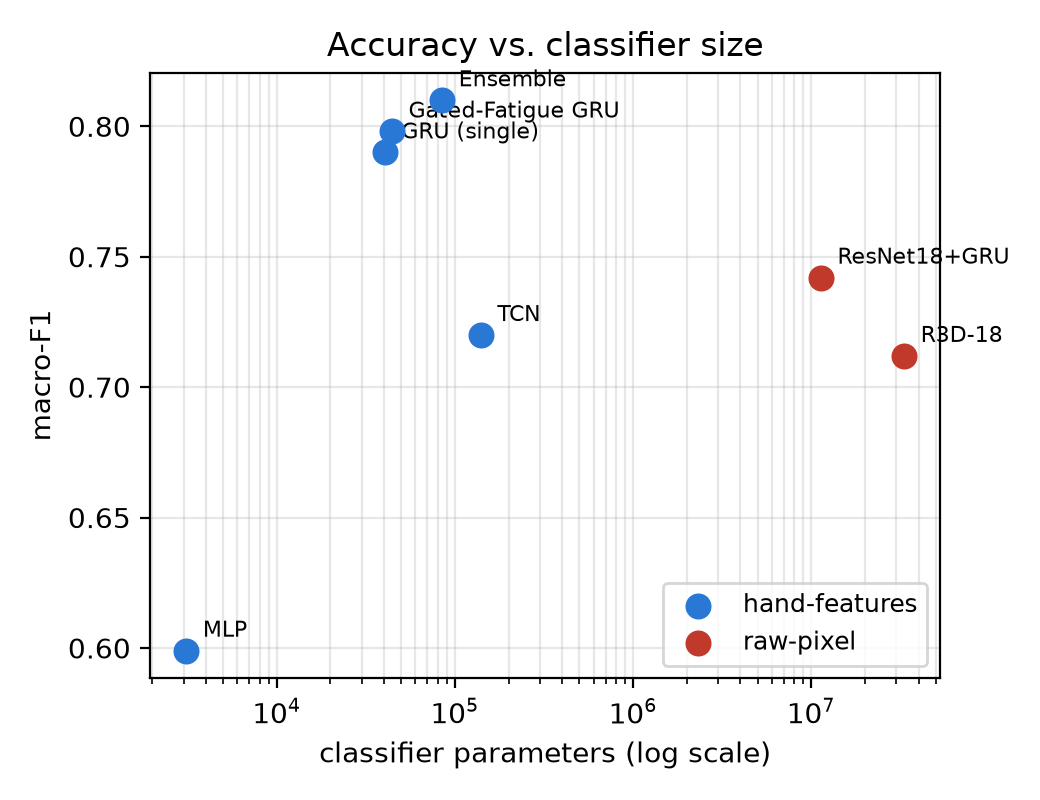
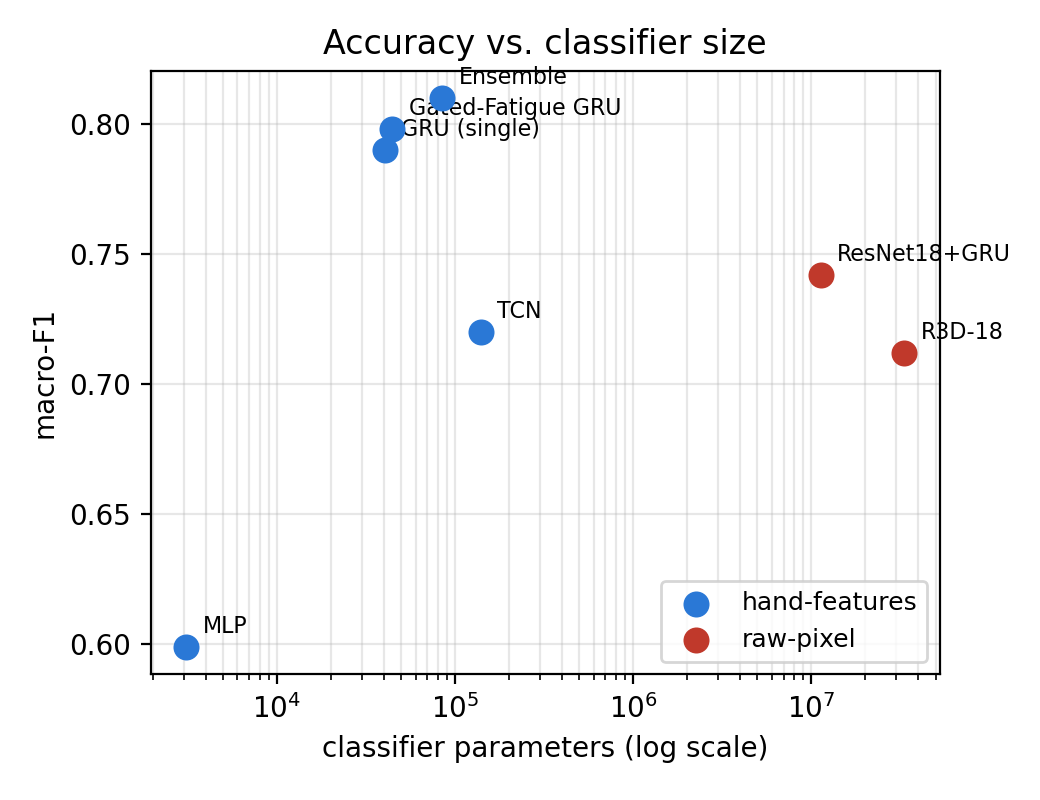
add test on jetson

diff --git a/docs/paper/paper.tex b/docs/paper/paper.tex
@@ -37,7 +37,7 @@ cmin@stthomas.edu}
 
 \begin{abstract}
 % TODO(author): trim/adjust once happy with the numbers.
-Distracted and drowsy driving are still one of the biggest causes of crashes on the road today. A driver monitoring system (DMS) that can watch the driver continuously and warn them before something bad happens could help a lot with this problem. Many DMS designs on the market or in research use infrared cameras, depth sensors, or wearable biosensors to make the system more reliable in bad lighting, but all of these add cost and make the system harder to install in a normal vehicle. This paper looks at the opposite direction: build a driver state monitoring pipeline using only one regular RGB camera, and design it so it can eventually run on a small embedded computer, the NVIDIA Jetson Orin Nano Super. The pipeline uses a chain of pretrained models to get face location, head pose, eye state, gaze direction, and mouth shape from each frame, turns these into a 13-number feature vector, and then a temporal model decides the driver's state from the sequence of these numbers. Since we did not fine-tune any of the upstream models, the only thing we actually train is this last classifier, so the paper focuses on comparing ten different architectures for it, from classic machine learning (SVM, Random Forest, Gradient Boosted Trees) to recurrent and convolutional sequence models (GRU, Temporal Convolutional Network) to models trained directly on raw pixels (a fine-tuned ResNet18+GRU and a 3D-CNN). All ten are trained and tested on the same driver-independent split of the Driver Monitoring Dataset (DMD), so the comparison is fair. The best result comes from averaging two GRU models together (a gated dual-branch GRU and a plain single-branch GRU), giving a macro-F1 of 0.810 using only 84,609 parameters combined, which is much smaller than the raw-pixel models we also tested (up to 33.2 million parameters) even though it performs better. We also found that using raw pixels does not actually beat the best hand-engineered-feature models here, and that training one of the models longer actually made it slightly worse. On-device latency and power measurements on the actual Jetson hardware are the next step of this work and are not included yet.
+Distracted and drowsy driving are still one of the biggest causes of crashes on the road today. A driver monitoring system (DMS) that can watch the driver continuously and warn them before something bad happens could help a lot with this problem. Many DMS designs on the market or in research use infrared cameras, depth sensors, or wearable biosensors to make the system more reliable in bad lighting, but all of these add cost and make the system harder to install in a normal vehicle. This paper looks at the opposite direction: build a driver state monitoring pipeline using only one regular RGB camera, and design it so it can eventually run on a small embedded computer, the NVIDIA Jetson Orin Nano Super. The pipeline uses a chain of pretrained models to get face location, head pose, eye state, gaze direction, and mouth shape from each frame, turns these into a 13-number feature vector, and then a temporal model decides the driver's state from the sequence of these numbers. Since we did not fine-tune any of the upstream models, the only thing we actually train is this last classifier, so the paper focuses on comparing ten different architectures for it, from classic machine learning (SVM, Random Forest, Gradient Boosted Trees) to recurrent and convolutional sequence models (GRU, Temporal Convolutional Network) to models trained directly on raw pixels (a fine-tuned ResNet18+GRU and a 3D-CNN). All ten are trained and tested on the same driver-independent split of the Driver Monitoring Dataset (DMD), so the comparison is fair. The best result comes from averaging two GRU models together (a gated dual-branch GRU and a plain single-branch GRU), giving a macro-F1 of 0.810 using only 84,609 parameters combined, which is much smaller than the raw-pixel models we also tested (up to 33.2 million parameters) even though it performs better. We also found that using raw pixels does not actually beat the best hand-engineered-feature models here, and that training one of the models longer actually made it slightly worse. We further port the full pipeline to the Jetson Orin Nano Super and measure it directly: as TensorRT FP16 engines the cascade plus classifier runs in about 5\,ms per frame (roughly 200\,fps of compute) while drawing under 10\,W and using 4.1\,GB of memory, confirming that the design fits the embedded budget with large margin.
 \end{abstract}
 
 \begin{IEEEkeywords}
@@ -158,22 +158,22 @@ Table~\ref{tab:comparison} shows all ten architectures side by side. The best si
 
 \begin{table}[htbp]
 \centering
-\caption{All ten architectures on the held-out driver split. Params is the trained classifier only, it does not include the pretrained cascade stages before it. The three classical ML models do not have a comparable parameter count, so they are marked N/A.}
+\caption{All ten architectures on the held-out driver split. Params is the trained classifier only, it does not include the pretrained cascade stages before it. The three classical ML models do not have a comparable parameter count, so they are marked N/A. Lat.\ is the measured per-frame stage-4 classifier latency on the Jetson Orin Nano Super at MAXN, and excludes the shared cascade front-end (that is reported separately in Section~\ref{sec:embedded}). Neural models are timed in PyTorch (CUDA), their present runtime; classical models ($\ddagger$) run in scikit-learn on the CPU, timed on representative inputs (their fitted models are not checkpointed), so the Random Forest figure in particular is indicative. $\dagger$: the tiny feature heads sit on a fixed ${\sim}0.5$\,ms PyTorch kernel-launch overhead, so their true compute is far smaller (0.02\,ms for the GRU under TensorRT) and parameter count is the fairer compute proxy for them. $\S$: R3D-18 emits one prediction per 16-frame clip (293\,ms/clip), so its figure is per-frame amortized.}
 \label{tab:comparison}
-\begin{tabular}{@{}lccc@{}}
+\begin{tabular}{@{}lcccc@{}}
 \toprule
-\textbf{Architecture} & \textbf{Input} & \textbf{macro-F1} & \textbf{Params} \\
+\textbf{Architecture} & \textbf{Input} & \textbf{macro-F1} & \textbf{Params} & \textbf{Lat.\ (ms)} \\
 \midrule
-SVM (RBF) & features & 0.531 & N/A \\
-Random Forest & features & 0.599 & N/A \\
-Gradient Boosted Trees & features & 0.620 & N/A \\
-MLP (per-frame) & features & 0.599 & 3{,}101 \\
-TCN & features, seq. & 0.720 & 139{,}549 \\
-R3D-18 (3D-CNN) & raw pixels & 0.712 & 33{,}177{,}437 \\
-ResNet18+GRU (fine-tuned) & raw pixels & 0.742 & 11{,}314{,}205 \\
-GRU (single-branch) & features, seq. & 0.790 & 40{,}349 \\
-Gated-Fatigue GRU & features, seq. & 0.798 & 44{,}260 \\
-\textbf{Ensemble (both GRUs)} & features, seq. & \textbf{0.810} & \textbf{84{,}609} \\
+SVM (RBF) & features & 0.531 & N/A & 0.70$^\ddagger$ \\
+Random Forest & features & 0.599 & N/A & 88$^\ddagger$ \\
+Gradient Boosted Trees & features & 0.620 & N/A & 1.84$^\ddagger$ \\
+MLP (per-frame) & features & 0.599 & 3{,}101 & 0.51$^\dagger$ \\
+TCN & features, seq. & 0.720 & 139{,}549 & 4.59 \\
+R3D-18 (3D-CNN) & raw pixels & 0.712 & 33{,}177{,}437 & 18.4$^\S$ \\
+ResNet18+GRU (fine-tuned) & raw pixels & 0.742 & 11{,}314{,}205 & 8.54 \\
+GRU (single-branch) & features, seq. & 0.790 & 40{,}349 & 0.60$^\dagger$ \\
+Gated-Fatigue GRU & features, seq. & 0.798 & 44{,}260 & 1.17 \\
+\textbf{Ensemble (both GRUs)} & features, seq. & \textbf{0.810} & \textbf{84{,}609} & \textbf{1.77} \\
 \bottomrule
 \end{tabular}
 \end{table}
@@ -212,28 +212,57 @@ Since we wanted a fair comparison, we trained every iterative architecture for a
 \section{Toward Embedded Deployment}
 \label{sec:embedded}
 
-% TODO(author): this section is currently just parameter counts and other
-% papers' published numbers. Fill in the placeholder table below once we
-% actually benchmark on the Jetson.
-
 Part of the reason we compared 10 different architectures instead of just picking the most accurate one is that an embedded board cannot simply run whatever gets the best number, it has to also fit inside a real-time latency and power budget. Table~\ref{tab:comparison} already tells us something useful here even without touching the Jetson: the classifier itself is a tiny part of the total compute, no matter which one we pick. Even the biggest raw-pixel model (33.2 million parameters) is small by the standards of embedded vision models, and the ensemble we are actually recommending (84,609 parameters combined) is far smaller still. The part of the pipeline that will actually decide whether this runs in real time is the cascade in Fig.~\ref{fig:pipeline}, stages ① through ⑤, since those run on every single frame no matter which classifier is used afterward.
 
 Two papers we cited earlier already give us a rough idea of what to expect. Scribano et al. \cite{b_scribano} report 1.73\,ms per frame (FP16) for their smallest model on a Jetson Xavier NX, and 16.5--23.7\,ms for their full pipeline depending on how often face detection runs. A separate paper targeting the Jetson Orin Nano directly \cite{b_multiregion} projects 13--20\,fps for a similar single-frame network. These numbers are useful as a rough reference, but they are for different network architectures running on different (and in one case weaker) hardware than what we are using, so they cannot really substitute for actually measuring our own pipeline.
 
-We have not measured our pipeline on the Jetson yet at the time of writing this paper. Table~\ref{tab:embedded_plan} lists what we plan to measure once the deployment is set up.
+We have now ported the full pipeline to the Jetson Orin Nano Super and measured it directly. Each of the five cascade stages, and the classifier, was built as a TensorRT FP16 engine and benchmarked at the uncapped MAXN power mode; Table~\ref{tab:embedded} reports the per-stage latency. In isolation the whole cascade plus classifier sums to about 5.0\,ms per frame, roughly 200\,frames per second of compute, and is dominated by the two backbone stages, SCRFD and 6DRepNet. The classifier itself is negligible, confirming on the actual hardware what the parameter counts already suggested.
+
+We also measured the pipeline end-to-end over a held-out DMD session (1280$\times$720, 2000 frames, all with a detected face). Our current reference implementation runs the cascade through ONNX Runtime's CUDA provider, with the gaze model on the CPU, rather than through the TensorRT engines, and sustains 11.5\,fps of compute (9.9\,fps including video decode). The gap between this and the ${\sim}200$\,fps compute bound is almost entirely because the two heaviest stages are not yet wired to their TensorRT engines: run through ONNX Runtime, 6DRepNet and SCRFD take 47.6\,ms and 22.9\,ms per frame, about 20$\times$ their standalone FP16 engine latency. Closing that gap is an implementation task, not a change to any model. Table~\ref{tab:embedded_sys} lists the system-level measurements. At MAXN the board draws only 9.5\,W on average (10.4\,W peak) and the pipeline peaks at 4.1\,GB of the 8\,GB shared memory pool, both well within budget. Since an in-vehicle system runs on vehicle power, the more relevant constraints are latency and memory, and the design meets both with large margin.
+
+Two caveats apply. The per-stage figures in Table~\ref{tab:embedded} are standalone engine latencies and do not include the pre- and post-processing between stages (face cropping, resizing, and the detector's anchor decoding and non-max suppression), so a fully optimized end-to-end rate would fall between our measured 11.5\,fps and the 200\,fps compute bound rather than at the bound. And the stage-4 classifiers in Table~\ref{tab:comparison} are timed in PyTorch, their present runtime: the very small feature-based heads sit on a fixed PyTorch kernel-launch overhead of about half a millisecond, so their true compute (0.02\,ms for the GRU under TensorRT) is well below what that column shows, which is why parameter count remains the fairer compute proxy for them.
+
+Fig.~\ref{fig:acclat} places all ten architectures on the axis that matters most for deployment, macro-F1 against measured per-frame latency, which is the on-device analog of the accuracy-versus-parameters view in Fig.~\ref{fig:accparams}. The hand-engineered-feature GRU family sits in the top-left corner, the best accuracy at the lowest latency, while both raw-pixel models sit lower and well to the right, and the classical baselines lower still. The model we recommend is thus not only the most accurate but also among the cheapest to run on the target board.
+
+\begin{figure}[htbp]
+  \centering
+  \includegraphics[width=0.48\textwidth]{figure/accuracy_vs_latency.png}
+  \caption{macro-F1 against measured per-frame on-device latency (log scale) on the Jetson Orin Nano Super at MAXN, for all ten architectures. Latency is the stage-4 classifier only (neural models timed in PyTorch/CUDA, classical in scikit-learn on CPU); the shared cascade front-end is reported separately in Table~\ref{tab:embedded}. The hand-feature GRU family (top-left) reaches the highest accuracy at the lowest latency.}
+  \label{fig:acclat}
+\end{figure}
 
 \begin{table}[htbp]
 \centering
-\caption{Planned Jetson measurements (not done yet).}
-\label{tab:embedded_plan}
+\caption{Measured per-stage latency on the Jetson Orin Nano Super (MAXN, TensorRT FP16, median GPU compute time). Every stage runs once per frame, except eye state, which runs once per eye. The gaze model, distributed only as OpenVINO IR, was converted to ONNX for this measurement and verified against the original to within $1.6\times10^{-3}$ on the output vector.}
+\label{tab:embedded}
+\begin{tabular}{@{}clc@{}}
+\toprule
+\textbf{Stage} & \textbf{Model} & \textbf{TRT FP16 (ms)} \\
+\midrule
+1 & SCRFD-500M (face detect) & 1.73 \\
+2 & 6DRepNet (head pose) & 2.23 \\
+3 & open-closed-eye-0001 ($\times$2) & 0.04 \\
+5 & gaze-estimation-adas-0002 & 0.40 \\
+-- & 2d106det (mouth / yawn) & 0.52 \\
+4 & GRU ensemble (classifier) & 0.02 \\
+\midrule
+\multicolumn{2}{@{}l}{\textbf{Total per frame}} & \textbf{$\approx$5.0} \\
+\bottomrule
+\end{tabular}
+\end{table}
+
+\begin{table}[htbp]
+\centering
+\caption{Measured system-level performance on the Jetson Orin Nano Super at MAXN, over a held-out DMD session. The reference implementation runs the cascade in ONNX Runtime (CUDA) with the gaze model on the CPU; the compute bound is the sum of the TensorRT FP16 engines in Table~\ref{tab:embedded}.}
+\label{tab:embedded_sys}
 \begin{tabular}{@{}ll@{}}
 \toprule
-\textbf{Measurement} & \textbf{Status} \\
+\textbf{Measurement} & \textbf{Value} \\
 \midrule
-Per-stage latency (①--⑤, TensorRT FP16) & TODO \\
-End-to-end pipeline latency / fps & TODO \\
-Power draw at 7\,W / 15\,W / 25\,W / MAXN & TODO \\
-Peak memory use (8\,GB shared pool) & TODO \\
+End-to-end (reference impl.) & 11.5\,fps compute; 9.9\,fps incl.\ decode \\
+Compute bound (TRT engines) & ${\approx}5.0$\,ms/frame (${\approx}200$\,fps) \\
+Power (VDD\_IN, MAXN) & 9.5\,W mean / 10.4\,W peak \\
+Peak memory & 4.1\,GB of 8\,GB shared pool \\
 \bottomrule
 \end{tabular}
 \end{table}
@@ -243,9 +272,9 @@ Peak memory use (8\,GB shared pool) & TODO \\
 
 We built an RGB-only driver monitoring pipeline and compared ten different classifier architectures for the last stage of it, all trained and tested on the same driver-independent split of DMD. The best result was averaging two GRU models together, reaching a macro-F1 of 0.810 with only 84,609 parameters, which is much smaller than any of the raw-pixel models we tried and still performs better than all of them. Along the way we found two things we did not expect: raw pixels do not beat the best hand-feature sequence models here, even though one of the raw-pixel models does beat some of the simpler hand-feature baselines, and training the largest model in the comparison for longer actually made it slightly worse instead of better.
 
-This work still has real limitations. There are only 14 drivers in total, which our own results suggest is already the main thing limiting accuracy, more drivers would probably help more than a bigger model at this point. DMD's drowsy and fatigued behavior is acted by the drivers on request rather than happening naturally, which might not fully represent what real fatigue looks like. Merging DROWSY and TIRED into one FATIGUED class was necessary given how little data we had for each one separately, but it does throw away some of the detail we originally wanted. Finally, and probably most importantly, none of the accuracy numbers in this paper are paired with real latency or power numbers from the Jetson yet, we chose an RGB-only, low-parameter design specifically because we expect it to fit an embedded budget, but we have not actually confirmed that on the hardware yet.
+This work still has real limitations. There are only 14 drivers in total, which our own results suggest is already the main thing limiting accuracy, more drivers would probably help more than a bigger model at this point. DMD's drowsy and fatigued behavior is acted by the drivers on request rather than happening naturally, which might not fully represent what real fatigue looks like. Merging DROWSY and TIRED into one FATIGUED class was necessary given how little data we had for each one separately, but it does throw away some of the detail we originally wanted. On the deployment side, we have now confirmed on the actual Jetson hardware that the pipeline fits an embedded budget, running at about 5\,ms per frame of compute under 10\,W, but our current reference runtime only realizes part of that because the two heaviest cascade stages still run through ONNX Runtime rather than their TensorRT engines.
 
-The immediate next step is running this pipeline on the Jetson Orin Nano Super and measuring the numbers listed in Table~\ref{tab:embedded_plan}. After that, we would like to collect data from more drivers so we can revisit whether FATIGUED can be split back into DROWSY and TIRED the way we originally intended.
+The immediate next step is therefore wiring those cascade stages to their TensorRT FP16 engines in the live runtime, to turn the ${\sim}200$\,fps compute bound we measured stage-by-stage into a sustained end-to-end frame rate. After that, we would like to collect data from more drivers so we can revisit whether FATIGUED can be split back into DROWSY and TIRED the way we originally intended.
 
 \begin{thebibliography}{00}
 

diff --git a/docs/paper/gen_accuracy_vs_latency.py b/docs/paper/gen_accuracy_vs_latency.py
@@ -1,0 +1,66 @@
+"""Accuracy (macro-F1) vs. measured on-device per-frame latency, log-x, for
+every architecture. Companion to gen_accuracy_vs_params.py but on the axis
+that actually matters for deployment: real latency measured on the Jetson
+Orin Nano Super (MAXN). Latency is the stage-4 classifier only (the shared
+cascade front-end is separate, see paper Section on embedded deployment).
+
+Neural models timed in PyTorch (CUDA), classical in scikit-learn (CPU); the
+very small feature heads (MLP, GRU) sit on a ~0.5 ms PyTorch kernel-launch
+floor, so their spread understates the true compute gap -- see the paper's
+Table II footnotes.
+
+Usage:
+    python docs/paper/gen_accuracy_vs_latency.py
+"""
+import os
+
+import matplotlib.pyplot as plt
+
+DATA = [
+    # name, latency_ms, macro-F1, family
+    ("SVM", 0.70, 0.531, "classical"),
+    ("Random Forest", 88.0, 0.599, "classical"),
+    ("GBT", 1.84, 0.620, "classical"),
+    ("MLP", 0.51, 0.599, "hand-features"),
+    ("TCN", 4.59, 0.720, "hand-features"),
+    ("GRU (single)", 0.60, 0.790, "hand-features"),
+    ("Gated-Fatigue GRU", 1.17, 0.798, "hand-features"),
+    ("Ensemble", 1.77, 0.810, "hand-features"),
+    ("ResNet18+GRU", 8.54, 0.742, "raw-pixel"),
+    ("R3D-18", 18.4, 0.712, "raw-pixel"),
+]
+
+HERE = os.path.dirname(os.path.abspath(__file__))
+OUT = os.path.join(HERE, "figure", "accuracy_vs_latency.png")
+os.makedirs(os.path.dirname(OUT), exist_ok=True)
+
+fig, ax = plt.subplots(figsize=(5.2, 4.0))
+colors = {"hand-features": "#2a78d6", "raw-pixel": "#c0392b", "classical": "#7f8c8d"}
+markers = {"hand-features": "o", "raw-pixel": "s", "classical": "^"}
+seen = set()
+for name, lat, f1, family in DATA:
+    label = family if family not in seen else None
+    seen.add(family)
+    ax.scatter(lat, f1, color=colors[family], marker=markers[family],
+               s=70, zorder=3, label=label)
+    # nudge labels that would otherwise collide with each other or the legend
+    nudge = {
+        "MLP": (6, -12),
+        "GRU (single)": (-8, 7),
+        "Gated-Fatigue GRU": (-6, -14),
+        "Ensemble": (6, 6),
+        "SVM": (8, 3),
+        "GBT": (6, 5),
+    }
+    dx, dy = nudge.get(name, (6, 5))
+    ax.annotate(name, (lat, f1), textcoords="offset points", xytext=(dx, dy), fontsize=8)
+
+ax.set_xscale("log")
+ax.set_xlabel("on-device latency per frame (ms, log scale)")
+ax.set_ylabel("macro-F1")
+ax.set_title("Accuracy vs. measured latency (Jetson Orin Nano, MAXN)")
+ax.grid(alpha=0.3, which="both")
+ax.legend(loc="upper right", fontsize=8, framealpha=0.9)
+fig.tight_layout()
+fig.savefig(OUT, dpi=200)
+print(f"saved {OUT}")

diff --git a/docs/METHODOLOGY.md b/docs/METHODOLOGY.md
@@ -2715,3 +2715,114 @@ including `--windowed-eval`). Checkpoints:
 curves + solo-vs-ensemble summary, `train/output/plot_cv_ensemble.py`):
 `train/output/plots/cv_attempt{1_k5,2_k3,3_k3_winEval}.png` and
 `cv_attempts_summary.png`.
+
+## 17. On-device embedded benchmarks (Jetson Orin Nano Super)
+
+Measured **2026-08-24 on the target hardware** — the previously-unmeasured
+half of the paper (paper.tex §VII was all TODO). Fills `tab:embedded` +
+`tab:embedded_sys` and the new latency column of `tab:comparison`.
+
+**Setup.** Jetson Orin Nano Super, **MAXN_SUPER** power mode (`sudo nvpmodel
+-m 2 && sudo jetson_clocks`), JetPack 6.2 / L4T r36.4, CUDA 12.6, TensorRT
+10.3. The PC-side `train/` cascade + classifier were ported to the Jetson for
+the first time — env in `~/dms-jetson-venv` (virtualenv, `--system-site-
+packages` for system cv2+tensorrt; torch 2.8.0 + onnxruntime-gpu 1.23.0 from
+the `jetson-ai-lab.io/jp6/cu126` wheel index; insightface/sixdrepnet/openvino
+from pypi). Install gotchas recorded in the memory note `jetson_port_env`;
+the load-bearing ones: torch must come from the Jetson index only (pypi
+silently gives a `+cpu` build), and plain `onnxruntime` must not be installed
+after `onnxruntime-gpu` (it clobbers the CUDA/TensorRT providers).
+
+### 17.1 Per-stage latency (TensorRT FP16)
+
+Each stage exported to ONNX and built as a TRT FP16 engine with `trtexec`
+(`--fp16 --memPoolSize=workspace:2048` — the 2 GB cap avoids CUDA-OOM during
+tactic search on the 7.4 GB shared pool), median GPU compute time:
+
+| Stage | Model | ONNX source | TRT FP16 (ms) |
+|---|---|---|---|
+| ① face | SCRFD-500M | insightface `det_500m.onnx`, 640×640 | 1.73 |
+| ② head pose | 6DRepNet | torch→ONNX export (RepVGG, 224×224) | 2.23 |
+| ③ eye state | open-closed-eye-0001 | `open_closed_eye.onnx`, 32×32 (×2 eyes) | 0.043 |
+| ⑤ gaze | gaze-estimation-adas-0002 | **PINTO_model_zoo 091** ONNX (IR has no ONNX) | 0.40 |
+| mouth | 2d106det | `2d106det.onnx`, 192×192 | 0.52 |
+| ④ classifier | GRU | `gru_single/state_gru.onnx` | 0.023 |
+| **sum** | | | **≈5.0 → ~200 fps** |
+
+- The gaze model ships only as OpenVINO IR (no Jetson-GPU OpenVINO plugin, and
+  IR→ONNX isn't natively supported). Used the PINTO_model_zoo #091 converted
+  ONNX, **verified vs the IR**: max-abs-diff **0.0016** on the gaze vector
+  (same input). On CPU/OpenVINO the same model is 2.41 ms — TRT FP16 is ~6×.
+- `trtexec` CoV was high (25–60%) on some stages due to background load /
+  shared-memory contention; medians are stable and used.
+
+### 17.2 End-to-end (reference ORT-CUDA implementation)
+
+Real integrated run over a held-out DMD session (`gA_1_s1`, 1280×720, 2000
+frames, 100% face). Cascade via onnxruntime **CUDA** EP + 6DRepNet on
+torch-CUDA + gaze on **OpenVINO CPU** + GRU ensemble on CPU (the classifiers
+are not TRT-exported — this is their real current runtime):
+
+- **9.9 fps** incl. video decode (100.6 ms/frame); **11.5 fps** compute-only
+  (86.9 ms/frame).
+- Per-stage *integrated* mean (ORT-CUDA, incl. pre/post-proc): **6DRepNet
+  47.6 ms**, **SCRFD 22.9 ms**, mouth 6.8, gaze 5.1, eye 2.5, clf 1.8. The
+  two backbones are ~20× their isolated TRT engine → the gap to the ~200 fps
+  compute bound is unrealized TRT, not model cost.
+- **Harness gotcha:** preloading 2000×720p frames = ~5.5 GB host RAM starved
+  the shared pool and crashed SCRFD's cuBLAS alloc (`CUBLAS_STATUS_ALLOC_
+  FAILED`). Fixed by streaming frames one at a time (decode timed separately).
+
+### 17.3 Power + memory (tegrastats @ MAXN)
+
+Sampled every 200 ms during 17.2 (1047 samples):
+
+- **VDD_IN (total board): mean 9.5 W, peak 10.4 W.** (CPU_GPU_CV 3.6 W,
+  SOC 2.1 W.) GPU only ~47% utilized — the path is torch/ORT-bound, not
+  GPU-bound. Only MAXN measured (deliberate: a vehicle-powered board isn't
+  power-constrained, so latency/memory are the real budget).
+- **Peak RAM: 4083 MB of 7620 MB (~54%)**, mean 3980 MB; modest swap (~1.3 GB).
+
+### 17.4 Per-model stage-④ classifier latency (all 10 architectures)
+
+Each architecture reconstructed from `train/` code (param counts match the
+paper table, e.g. MLP 3,075≈3,101, TCN 139,523, GRU-single 40,323, gated
+44,227, ensemble 84,550, ResNet18+GRU 11.30M, R3D-18 33.17M) — latency is a
+function of architecture+input shape, not trained weights, so no checkpoint or
+data is needed. Neural = PyTorch **CUDA-event** timing (their actual runtime),
+classical = sklearn **CPU** on synthetic data (indicative). Script:
+`scratchpad/models_bench.py`.
+
+| model | input (per prediction) | latency | runtime |
+|---|---|---|---|
+| SVM (RBF) | (1,13) | 0.70 ms | CPU |
+| Random Forest (300 trees) | (1,13) | ~88 ms | CPU (synthetic — indicative) |
+| Gradient Boosted Trees | (1,13) | 1.84 ms | CPU |
+| MLP | (1,13) | 0.51 ms† | torch-CUDA |
+| TCN | (1,256,13) window | 4.59 ms | torch-CUDA |
+| GRU (single) | (1,1,13) | 0.60 ms† | torch-CUDA |
+| Gated-Fatigue GRU | (1,1,13) | 1.17 ms | torch-CUDA |
+| Ensemble (both GRUs) | 2×(1,1,13) | 1.77 ms | torch-CUDA |
+| ResNet18+GRU (raw px) | (1,1,112,112,3) | 8.54 ms/frame | torch-CUDA |
+| R3D-18 (raw px) | (1,16,112,112,3) | 293.6 ms/clip (~18.4/frame) | torch-CUDA |
+
+- †: feature heads are **torch kernel-launch-overhead bound** (~0.5 ms floor),
+  not compute — cf. the GRU's 0.023 ms TRT engine (17.1). Params is the fairer
+  compute axis for these; the latency column matters most for the raw-pixel
+  CNNs where compute dominates.
+- R3D-18 needed `PYTORCH_NO_CUDA_MEMORY_CACHING=1` to dodge a Jetson conv3d
+  NVML assert in the caching allocator; it predicts once per 16-frame clip.
+- **Total on-device = shared cascade + classifier.** Hand-feature models add
+  0.5–4.6 ms on the ~5 ms TRT cascade (ensemble: ~7 ms total, ~140 fps
+  compute-bound); raw-pixel models skip the hand-feature cascade but cost
+  8.5–18 ms/frame for the CNN alone (R3D-18's 3D convs are catastrophic on
+  Orin Nano). The 0.810-F1 ensemble is ~10× cheaper than the lower-accuracy
+  raw-pixel models — on-device evidence for the accuracy-vs-compute thesis.
+
+### 17.5 Still open
+
+The cascade TRT engines exist (`scratchpad/engines/`) but are **not wired into
+the live Python pipeline** — SCRFD/6DRepNet still call ORT/torch, which is why
+the reference impl is ~10 fps vs the ~200 fps engine sum. Wiring them in (and
+exporting the classifier to TRT) is the remaining deployment step; it's an
+implementation task, no model changes.
